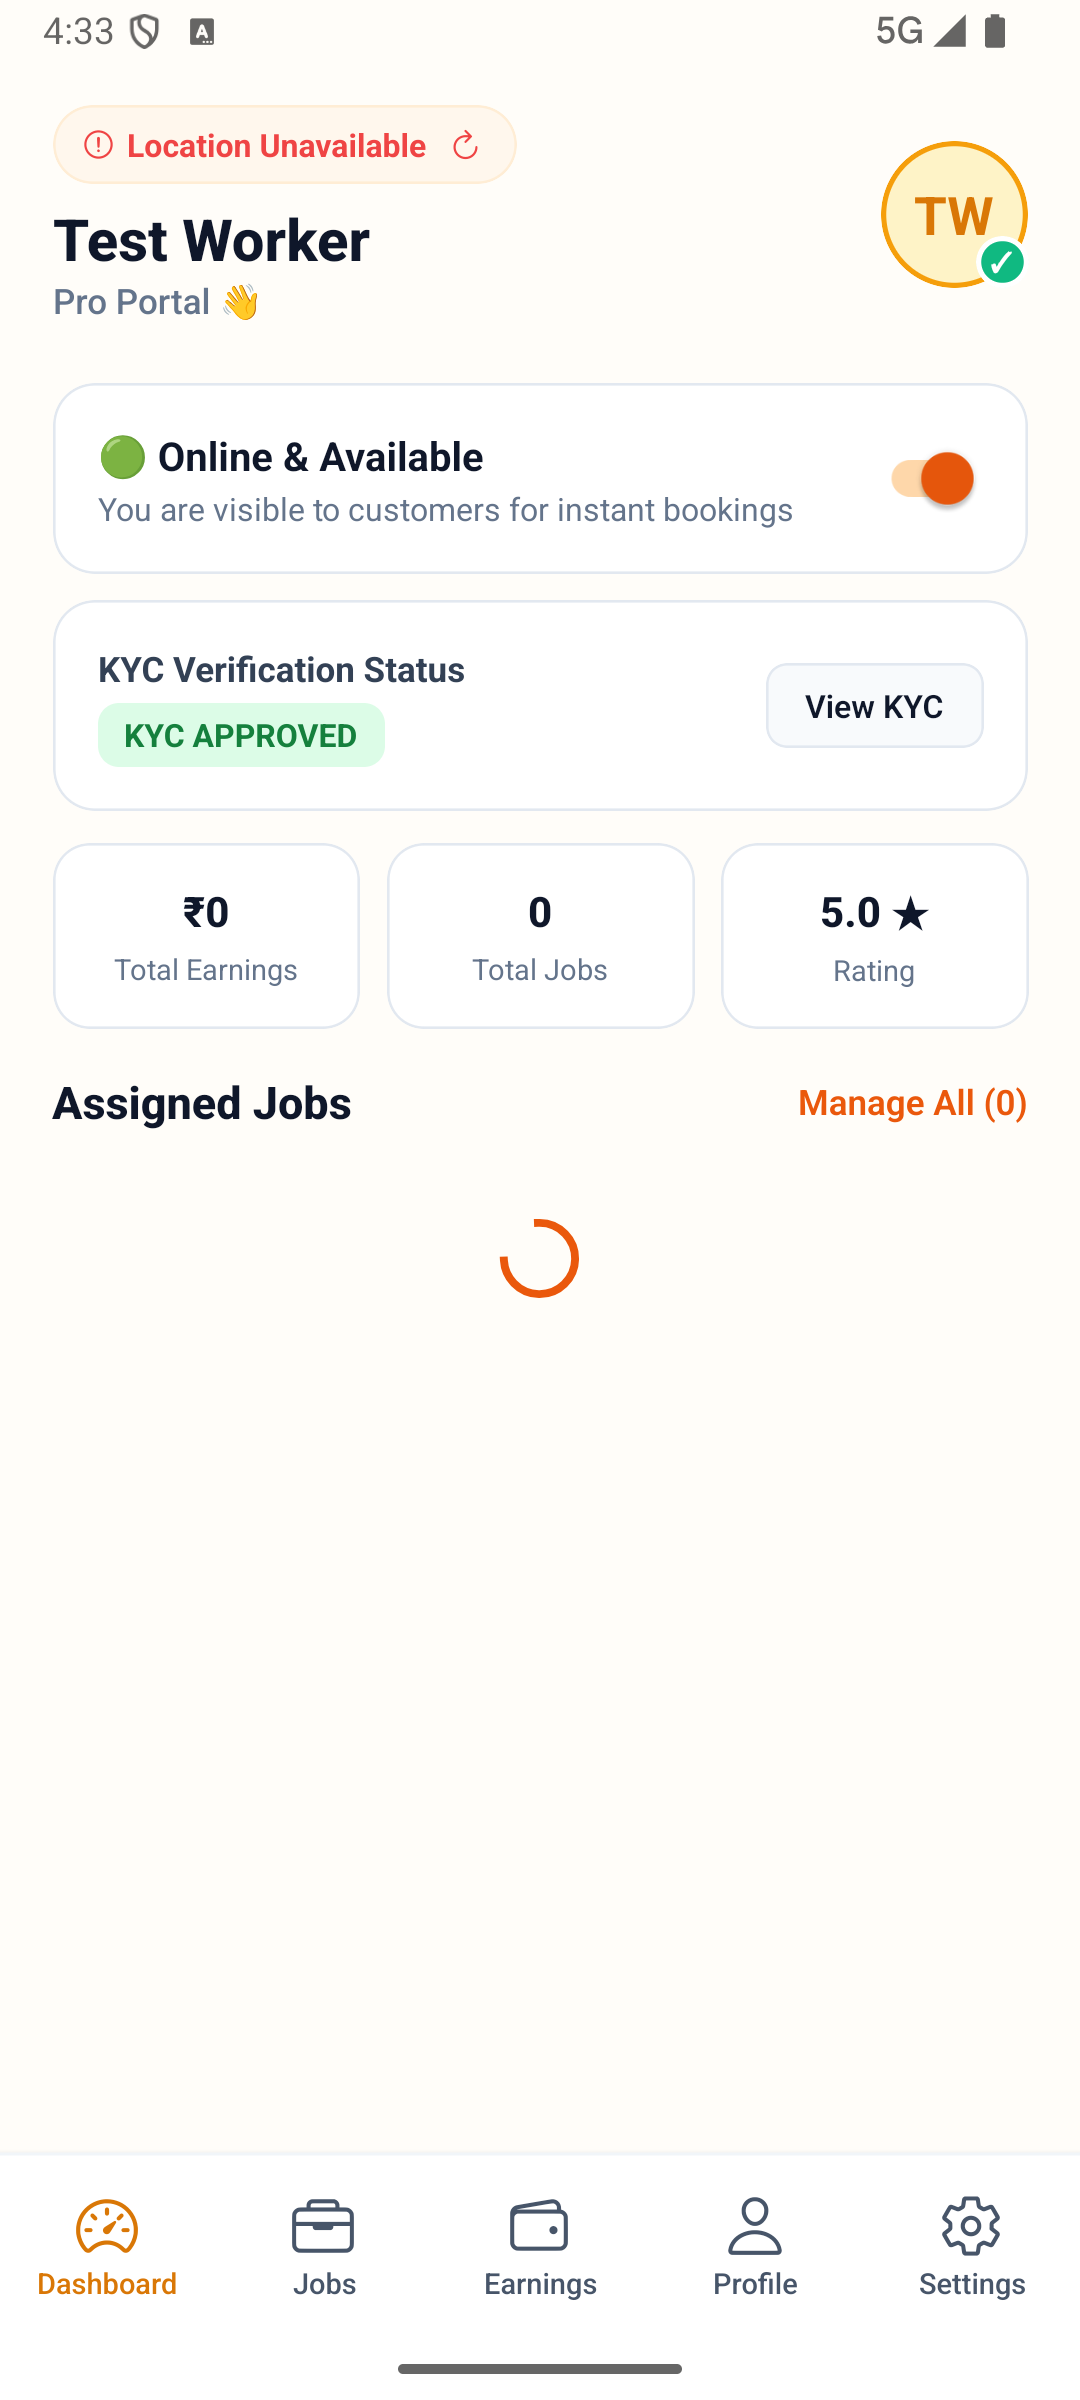
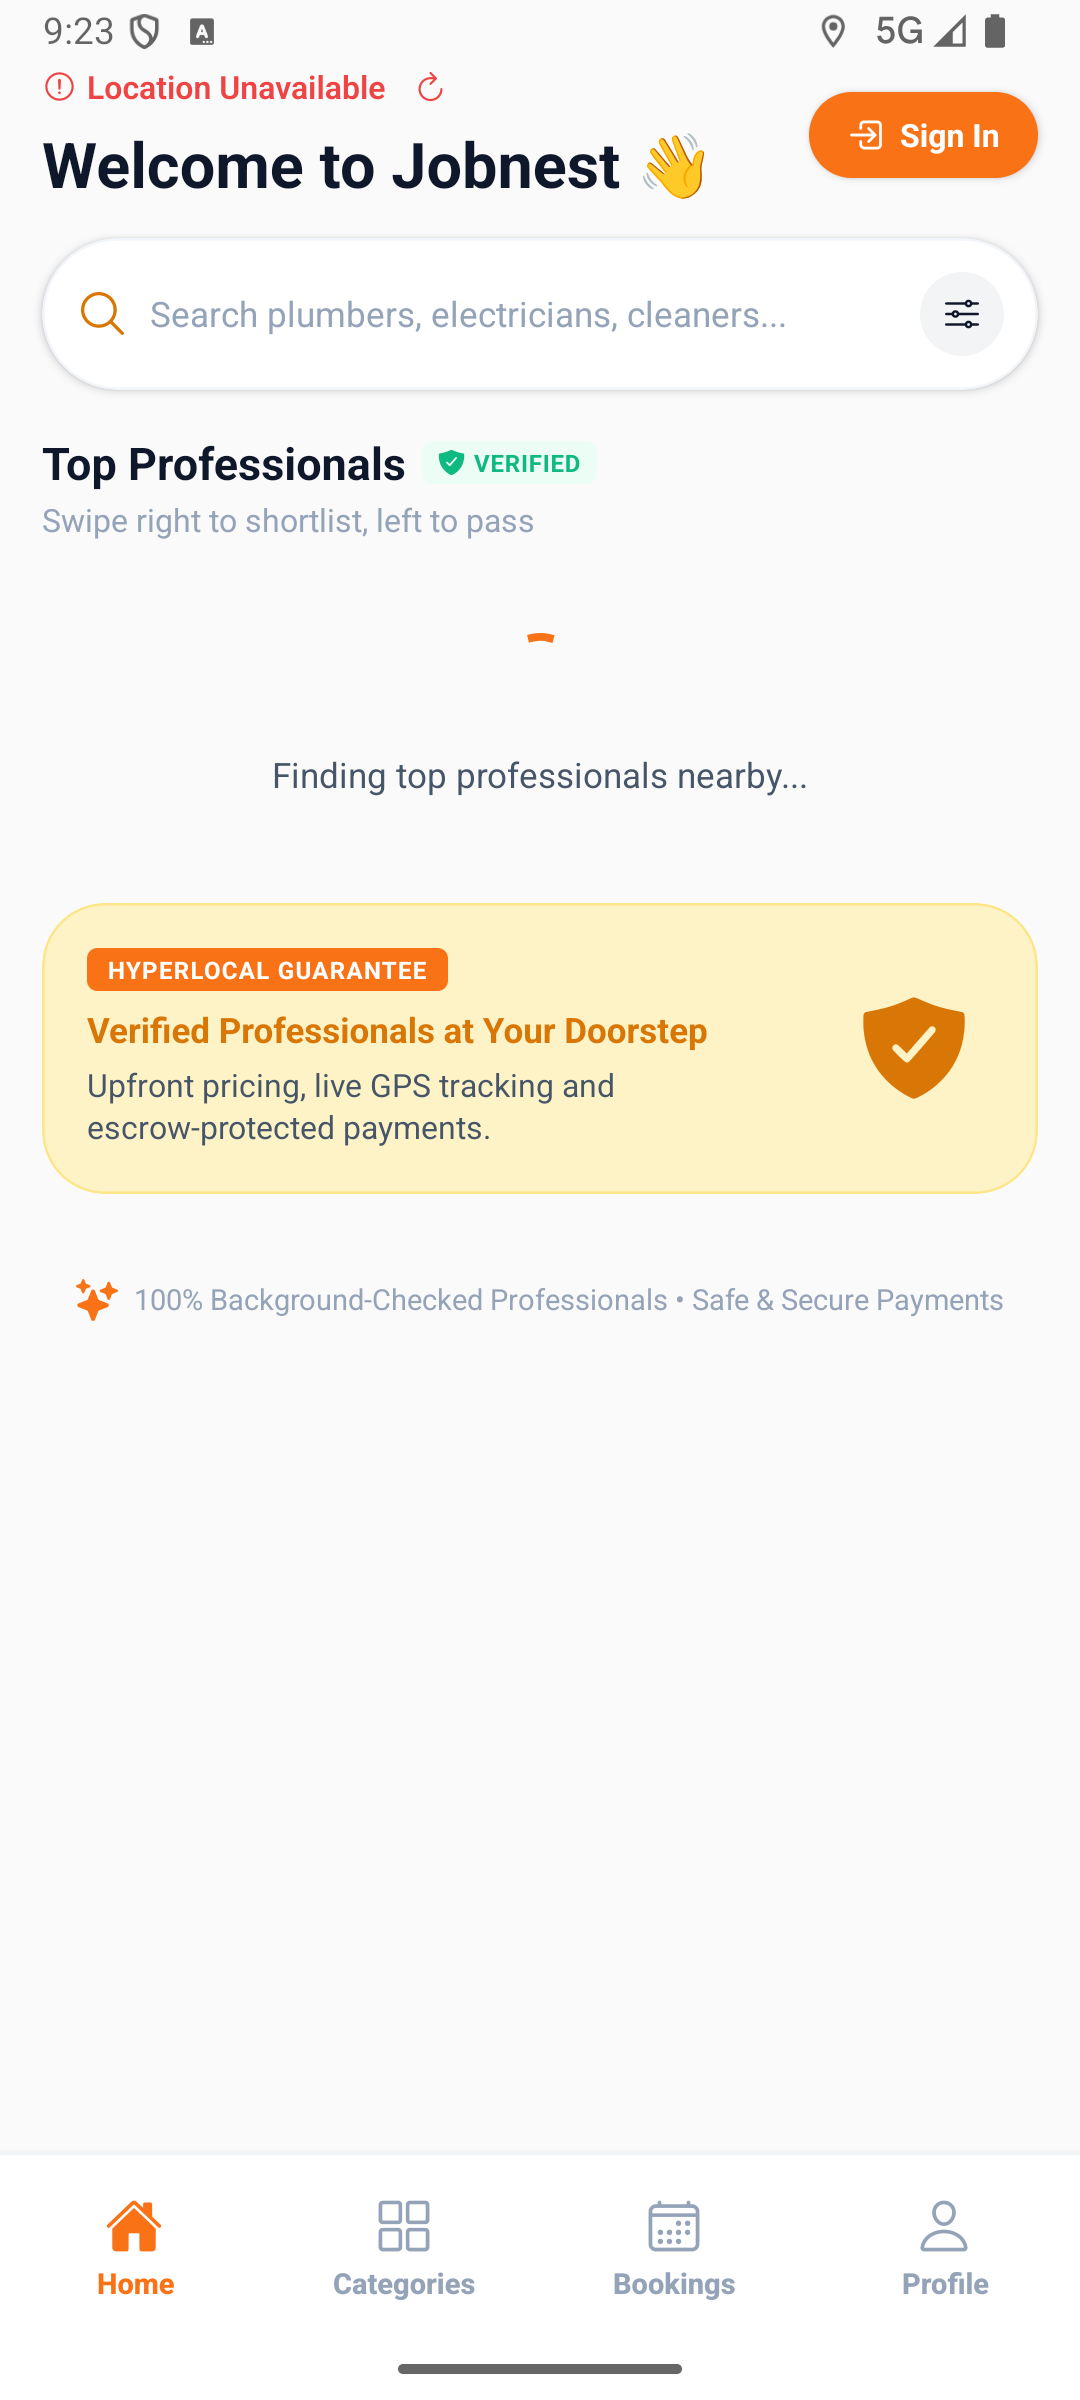
feat: add login screen component and emulator screenshots

diff --git a/hyperlocal-mobile/src/app/(auth)/login.tsx b/hyperlocal-mobile/src/app/(auth)/login.tsx
@@ -220,17 +220,6 @@ export default function LoginScreen() {
               style={styles.submitBtn}
             />
 
-            {/* Explore Demo Customer Account Button */}
-            <TouchableOpacity
-              style={styles.demoAccountBtn}
-              onPress={() => handleLogin('demo@jobnest.com', 'Demo@123')}
-              activeOpacity={0.8}
-              disabled={loading}
-            >
-              <Ionicons name="sparkles" size={16} color={colors.accent} />
-              <Text style={styles.demoAccountBtnText}>Explore Demo Account</Text>
-            </TouchableOpacity>
-
             {/* Browse as Guest Link */}
             <TouchableOpacity
               style={{ alignItems: 'center', paddingVertical: 6 }}
@@ -338,23 +327,6 @@ const styles = StyleSheet.create({
   },
   submitBtn: {
     marginTop: spacing.sm,
-  },
-  demoAccountBtn: {
-    flexDirection: 'row',
-    alignItems: 'center',
-    justifyContent: 'center',
-    gap: 8,
-    backgroundColor: '#FFFBEB',
-    borderWidth: 1.5,
-    borderColor: '#FED7AA',
-    paddingVertical: 14,
-    borderRadius: radius.md,
-    marginTop: spacing.xs,
-  },
-  demoAccountBtnText: {
-    color: colors.accent,
-    fontSize: typography.sizes.sm,
-    fontWeight: typography.weights.bold,
   },
   footerContainer: {
     flexDirection: 'row',
